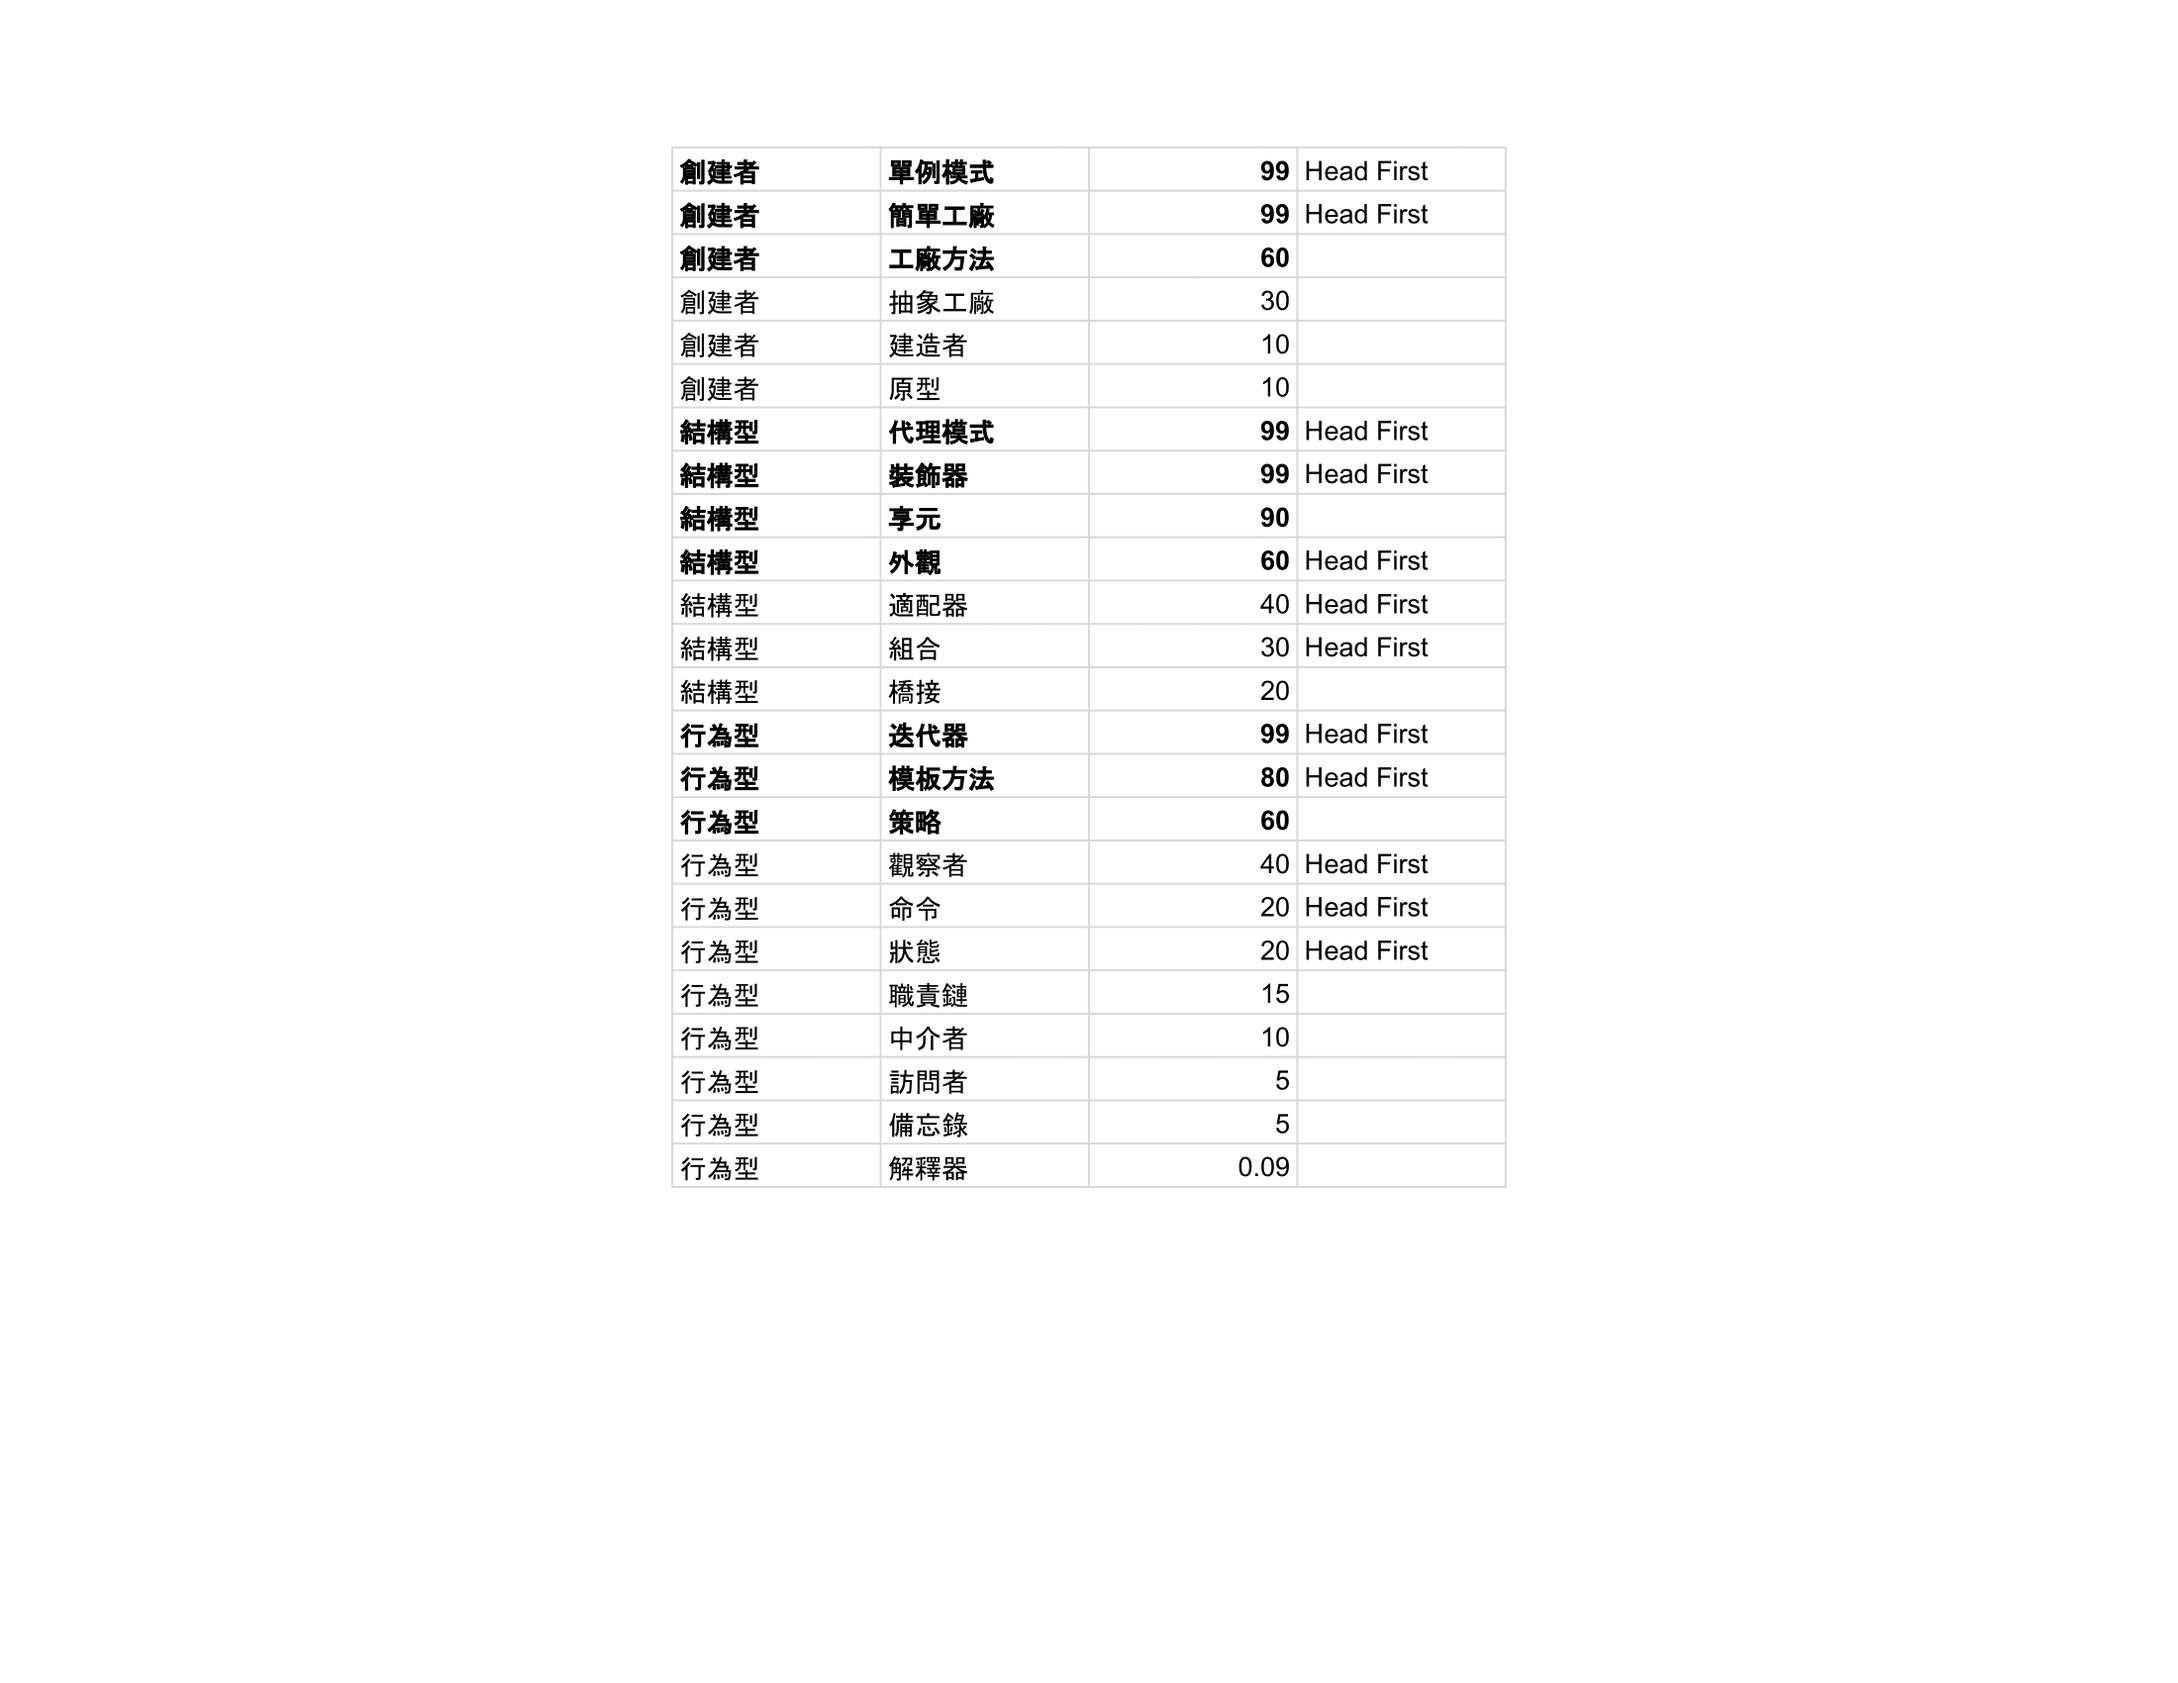
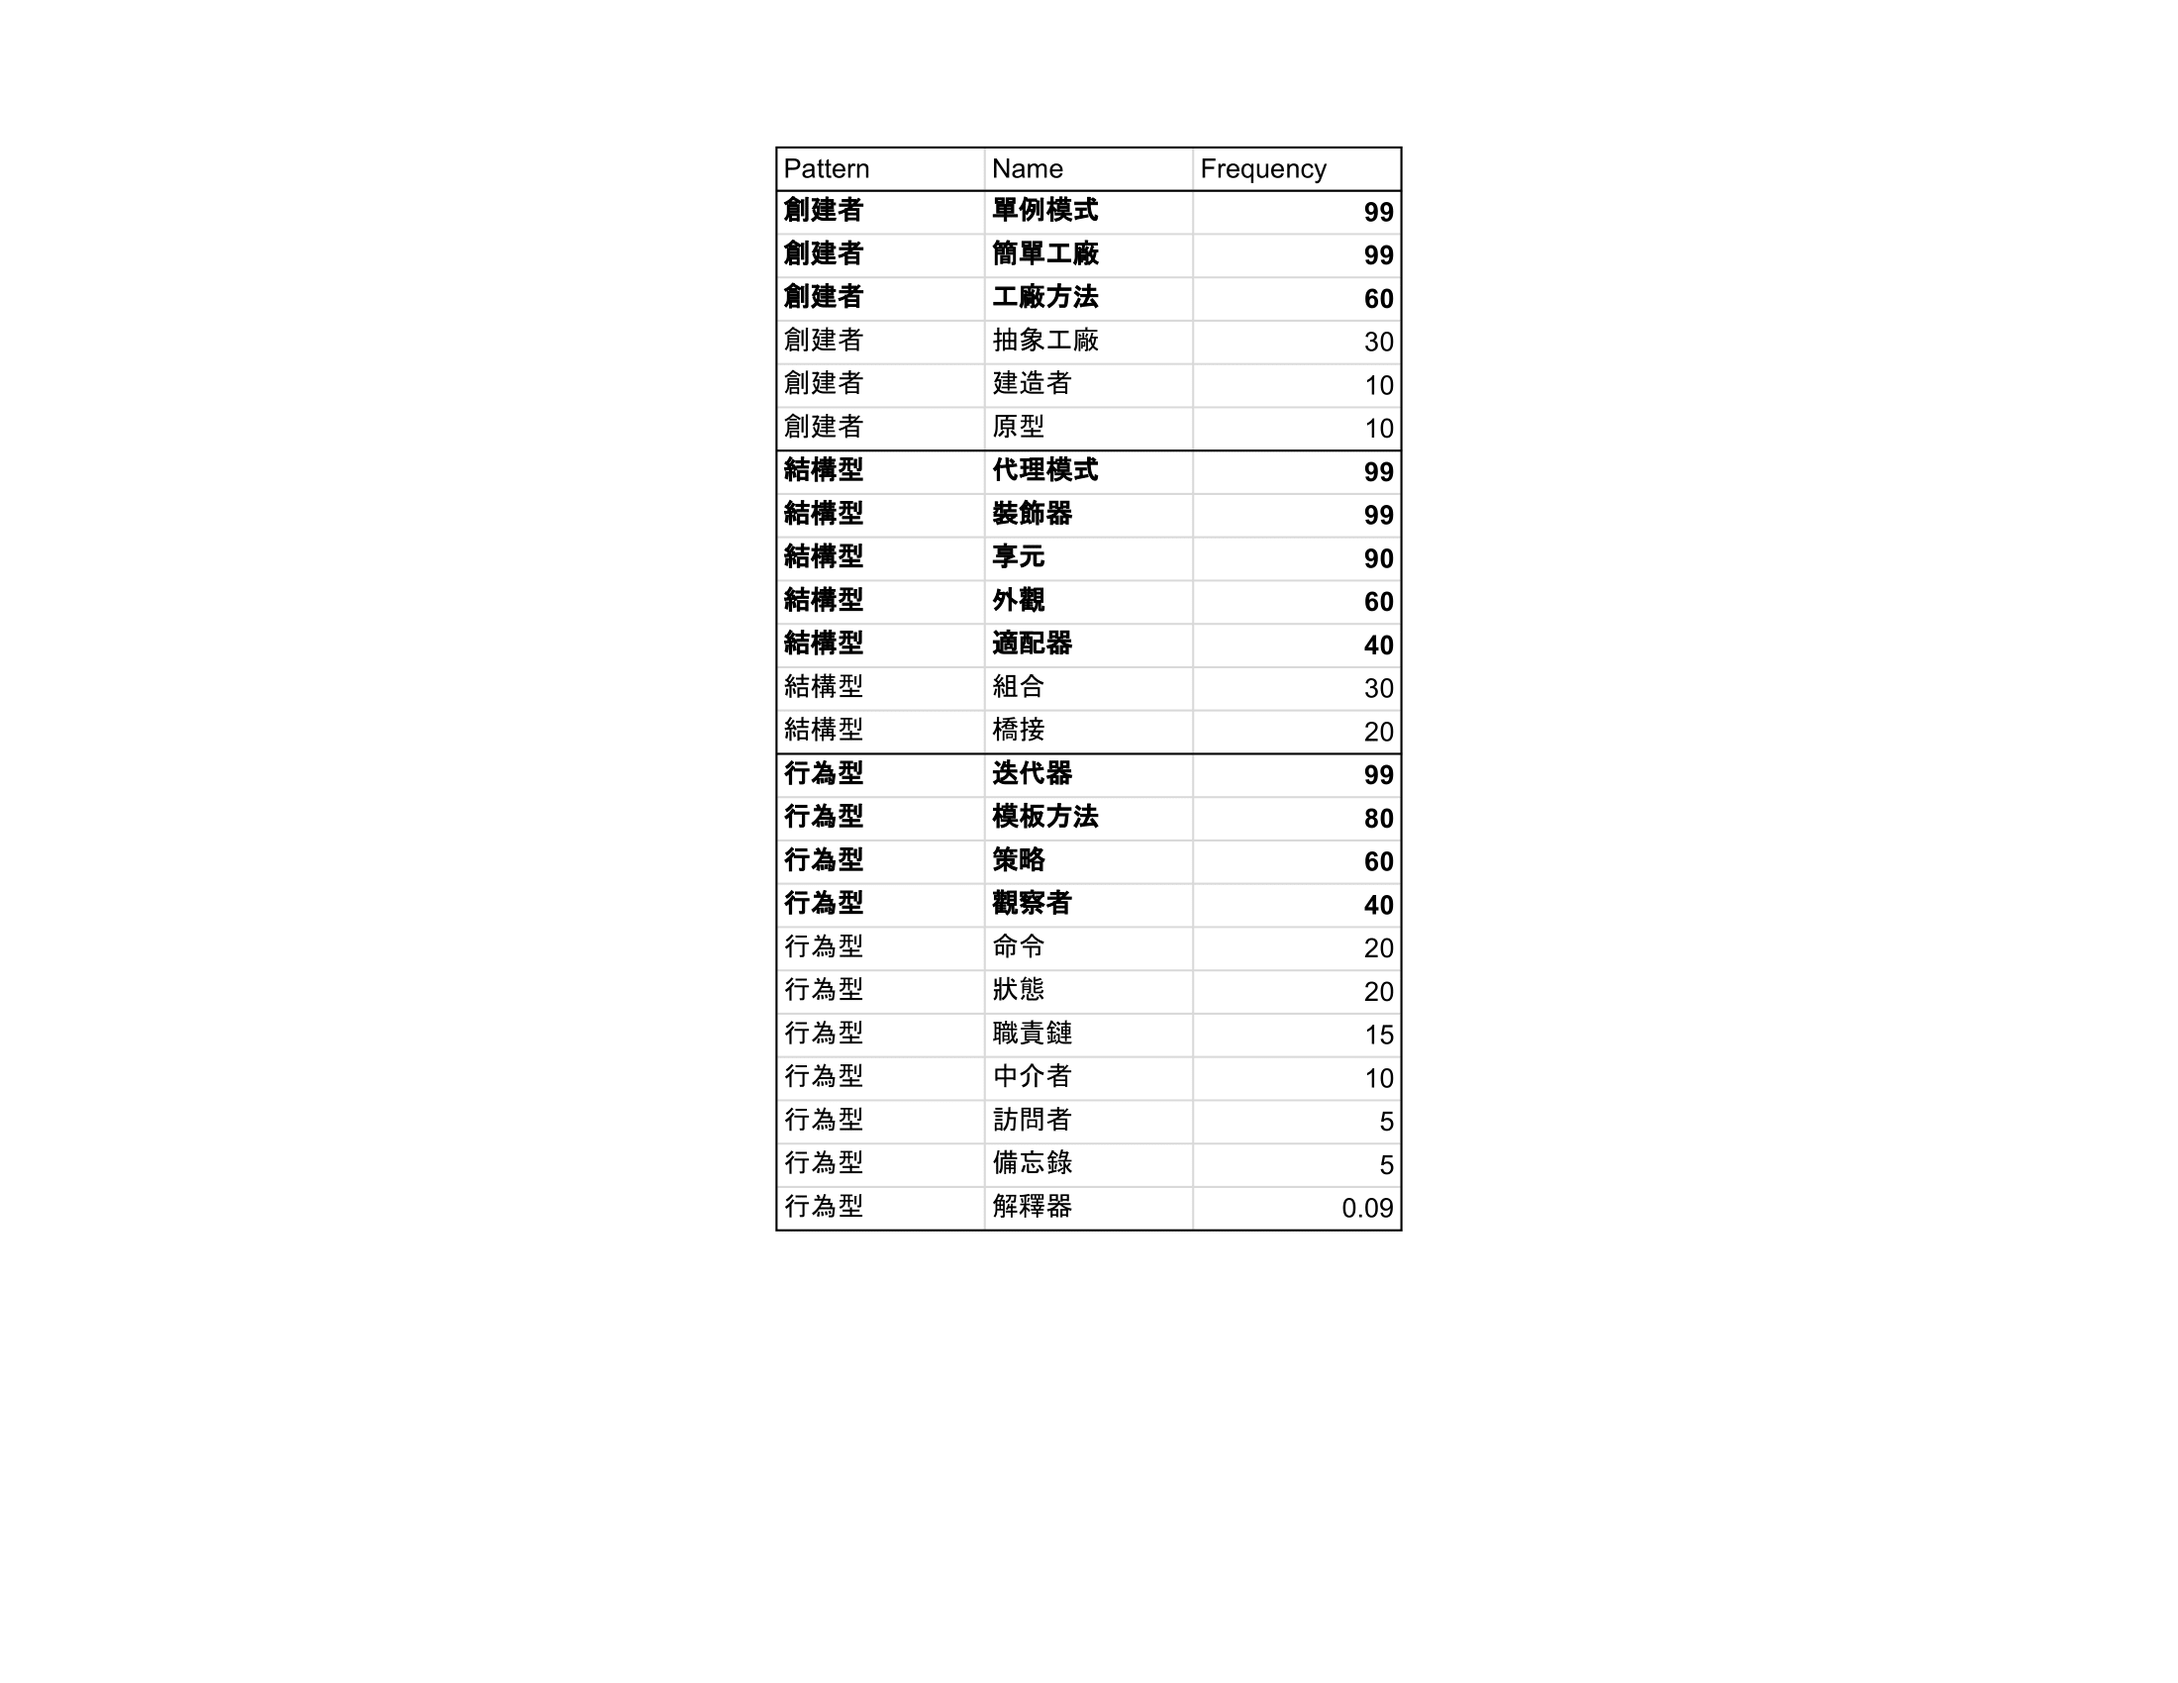
feat(posts & images): design pattern overview and update pattern image

Changed region(s): [[0.3091, 0.0935, 0.68, 0.7482], [0.6182, 0.6859, 0.6491, 0.7482]]

diff --git a/_posts/java/2020-04-16-design-pattern.md b/_posts/java/2020-04-16-design-pattern.md
@@ -12,14 +12,30 @@ tags: [java]
 3. 依赖倒置原则：高层模块不应该依赖低层模块，二者都应该依赖其抽象，抽象不应该依赖细节，细节应该依赖抽象。
 4. 接口隔离原则：建立单一接口，不要建立庞大臃肿的接口，尽量细化接口，接口中的方法尽量少。
 5. 迪米特原则：一个类对象应该对其他对象保持最少的了解，尽量降低类与类之间的耦合，例如使用中介的类来发生联系。
-6. 开闭原则：当软件需要变化时，尽量通过扩展软件实体的行为来实现变化，而不是通过修改已有的代码来实现变化。
-（遵循设计模式前面5大原则，以及使用23种设计模式的目的就是遵循开闭原则）
+6. 开闭原则：当软件需要变化时，尽量通过扩展软件实体的行为来实现变化，而不是通过修改已有的代码来实现变化（对扩展开放，对修改关闭的原则）。
 
-Ref: [设计模式六大原则](http://www.uml.org.cn/sjms/201211023.asp){:target="_blank"}
+遵循设计模式前面5大原则，以及使用23种设计模式的目的就是遵循开闭原则。
+
+Ref:
+- [设计模式六大原则](http://www.uml.org.cn/sjms/201211023.asp){:target="_blank"}
+- [设计模式详解（总纲） - 左潇龙 - 博客园](https://www.cnblogs.com/zuoxiaolong/p/pattern1.html){:target="_blank"}
 
 ## 24 种设计模式
 
 ![](http://www.hauchenglee.com/assets/images/java/design-pattern-gof-analysis.png)
+
+
+
+### Reference
+
+Overview:
+ 
+- [设计模式大杂烩（24种设计模式的总结以及学习设计模式的几点建议） - 左潇龙 - 博客园](https://www.cnblogs.com/zuoxiaolong/p/pattern26.html){:target="_blank"}
+- [Java设计模式：23种设计模式全面解析（超级详细）](http://c.biancheng.net/design_pattern/){:target="_blank"}
+- [设计模式 \| 菜鸟教程](https://www.runoob.com/design-pattern/design-pattern-tutorial.html){:target="_blank"}
+- [前言 · GitBook](https://xiaoyureed.github.io/my/e_book/design_pattern/){:target="_blank"}
+
+设计模式:
 
 - 代理模式：
    - [我的Java設計模式代理模式 \| 程式前沿](https://bit.ly/2RHVpnH){:target="_blank"}
@@ -29,10 +45,5 @@ Ref: [设计模式六大原则](http://www.uml.org.cn/sjms/201211023.asp){:targe
 - 迭代器：
    - [23种设计模式（13）：迭代器模式_Java_三级小野怪的专栏-CSDN博客](https://blog.csdn.net/zhengzhb/article/details/7610745){:target="_blank"}
 
-Ref: 
-- [设计模式大杂烩（24种设计模式的总结以及学习设计模式的几点建议） - 左潇龙 - 博客园](https://www.cnblogs.com/zuoxiaolong/p/pattern26.html){:target="_blank"}
-- [Java设计模式：23种设计模式全面解析（超级详细）](http://c.biancheng.net/design_pattern/){:target="_blank"}
-- [设计模式 \| 菜鸟教程](https://www.runoob.com/design-pattern/design-pattern-tutorial.html){:target="_blank"}
-- [前言 · GitBook](https://xiaoyureed.github.io/my/e_book/design_pattern/){:target="_blank"}
 
 ---
